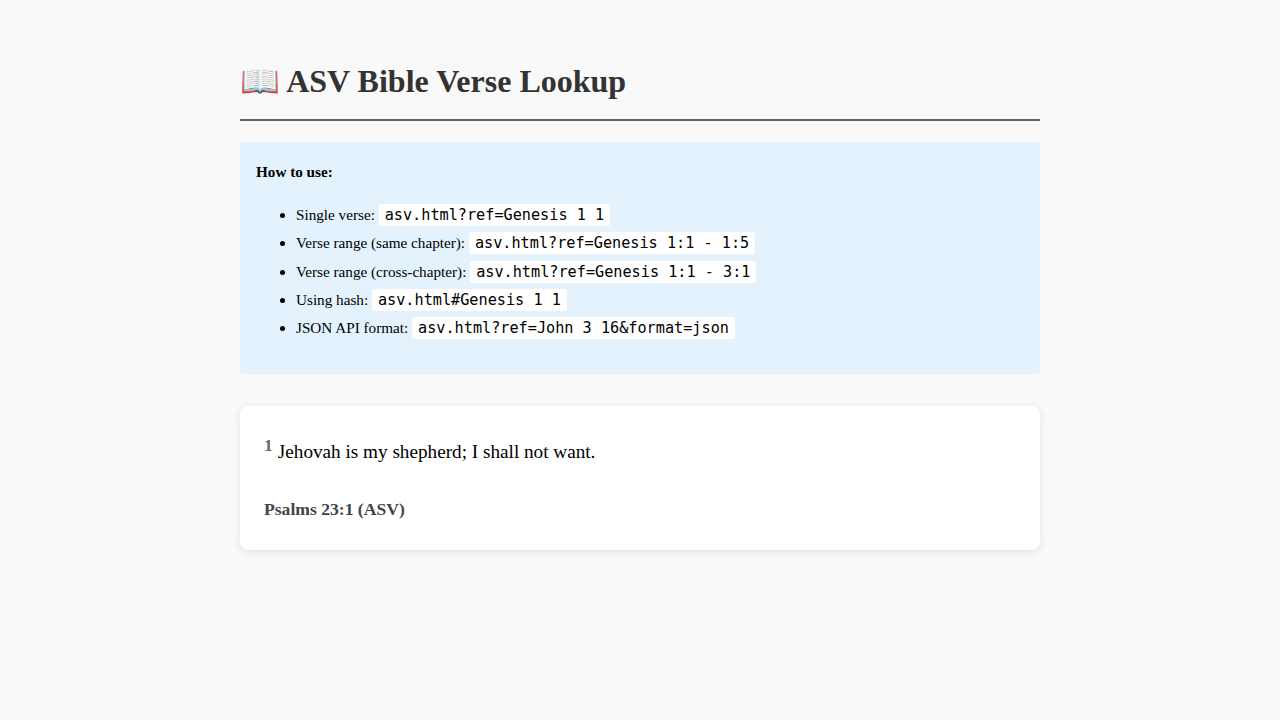
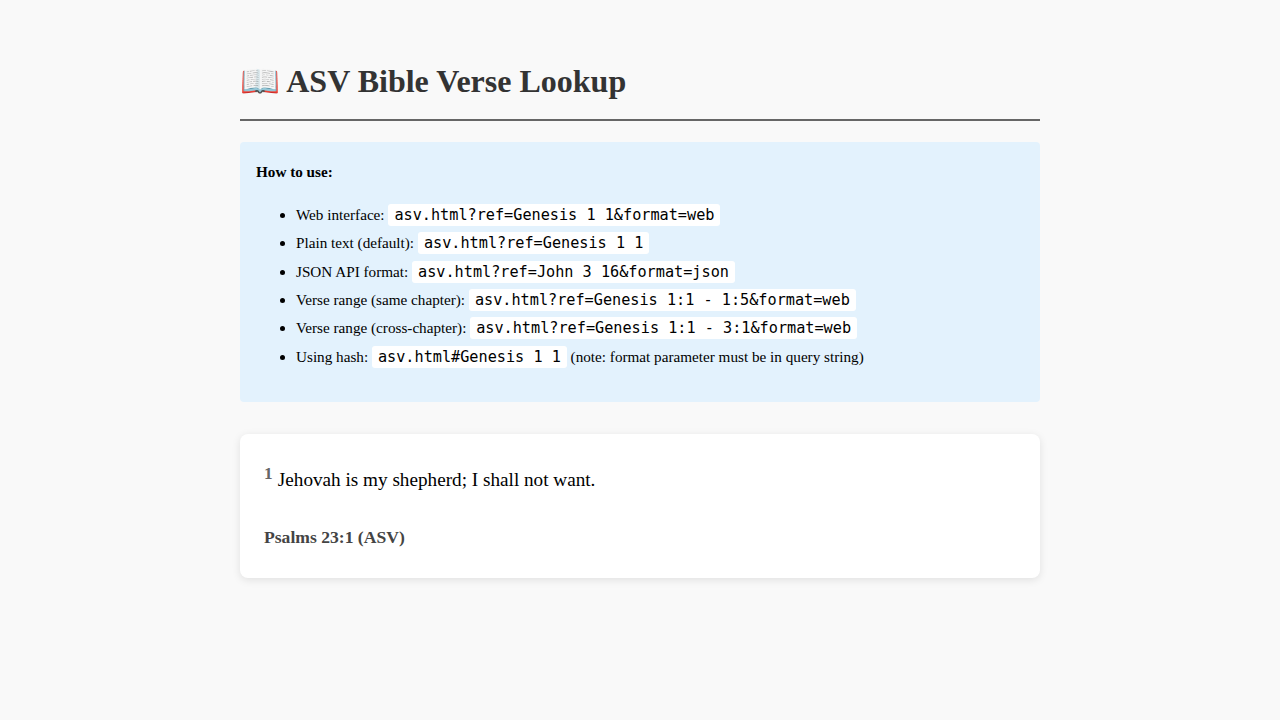
Add format=txt screenshot and update workflow for all three formats

Changed region(s): [[0.2188, 0.275, 0.6875, 0.5194], [0.1875, 0.6111, 0.4688, 0.7639], [0.25, 0.0917, 0.3125, 0.1222]]

diff --git a/README.md b/README.md
@@ -104,6 +104,8 @@ https://worship.direct/bible/en/asv.html?ref=Genesis 1:1 - 1:3
 https://worship.direct/bible/en/kjv.html?ref=John 3 16&format=txt
 ```
 
+![Plain Text API Response](screenshots/txt-format-response.png)
+
 **Web Interface Example:**
 
 ```bash
@@ -235,8 +237,9 @@ The repository includes a GitHub Actions workflow that automatically updates scr
 - Uses Playwright to capture screenshots of:
   - Main landing page
   - Verse lookup results
-  - KJV and ASV HTML interfaces
-  - JSON API response format
+  - KJV and ASV HTML interfaces (format=web)
+  - Plain text API response (format=txt)
+  - JSON API response (format=json)
 - Automatically commits and pushes updated screenshots
 
 See [`.github/workflows/update-screenshots.yml`](.github/workflows/update-screenshots.yml) for details.
@@ -262,6 +265,7 @@ See [`.github/workflows/update-screenshots.yml`](.github/workflows/update-screen
 │   ├── verse-lookup-result.png
 │   ├── kjv-html-interface.png
 │   ├── asv-html-interface.png
+│   ├── txt-format-response.png
 │   └── json-api-response.png
 ├── scripts/              # Conversion scripts
 │   ├── README.md
